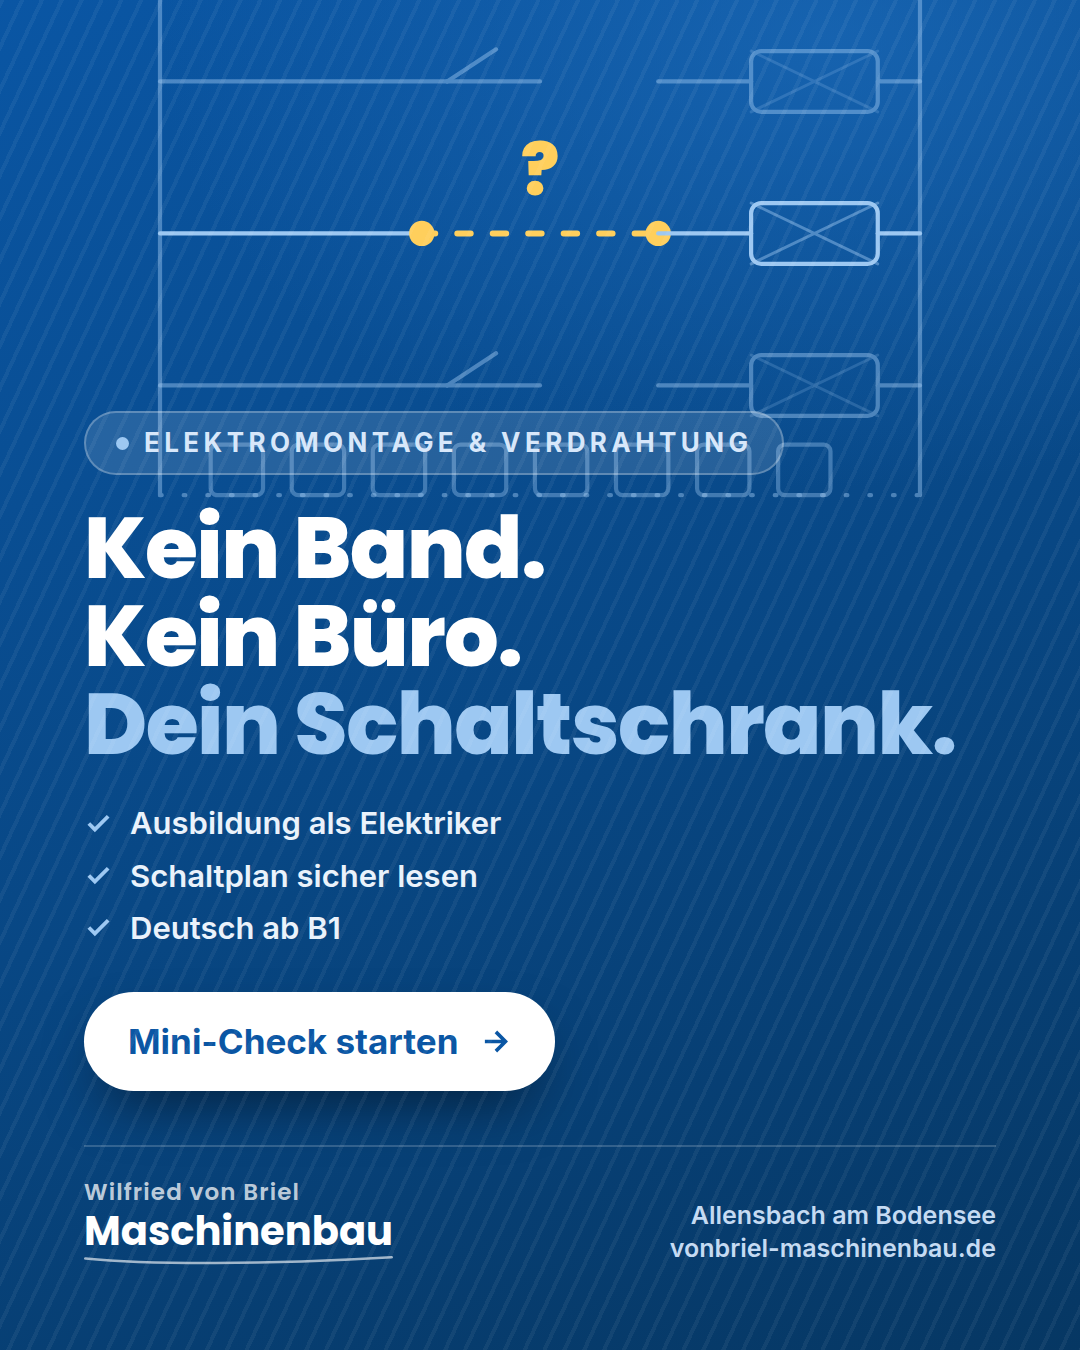
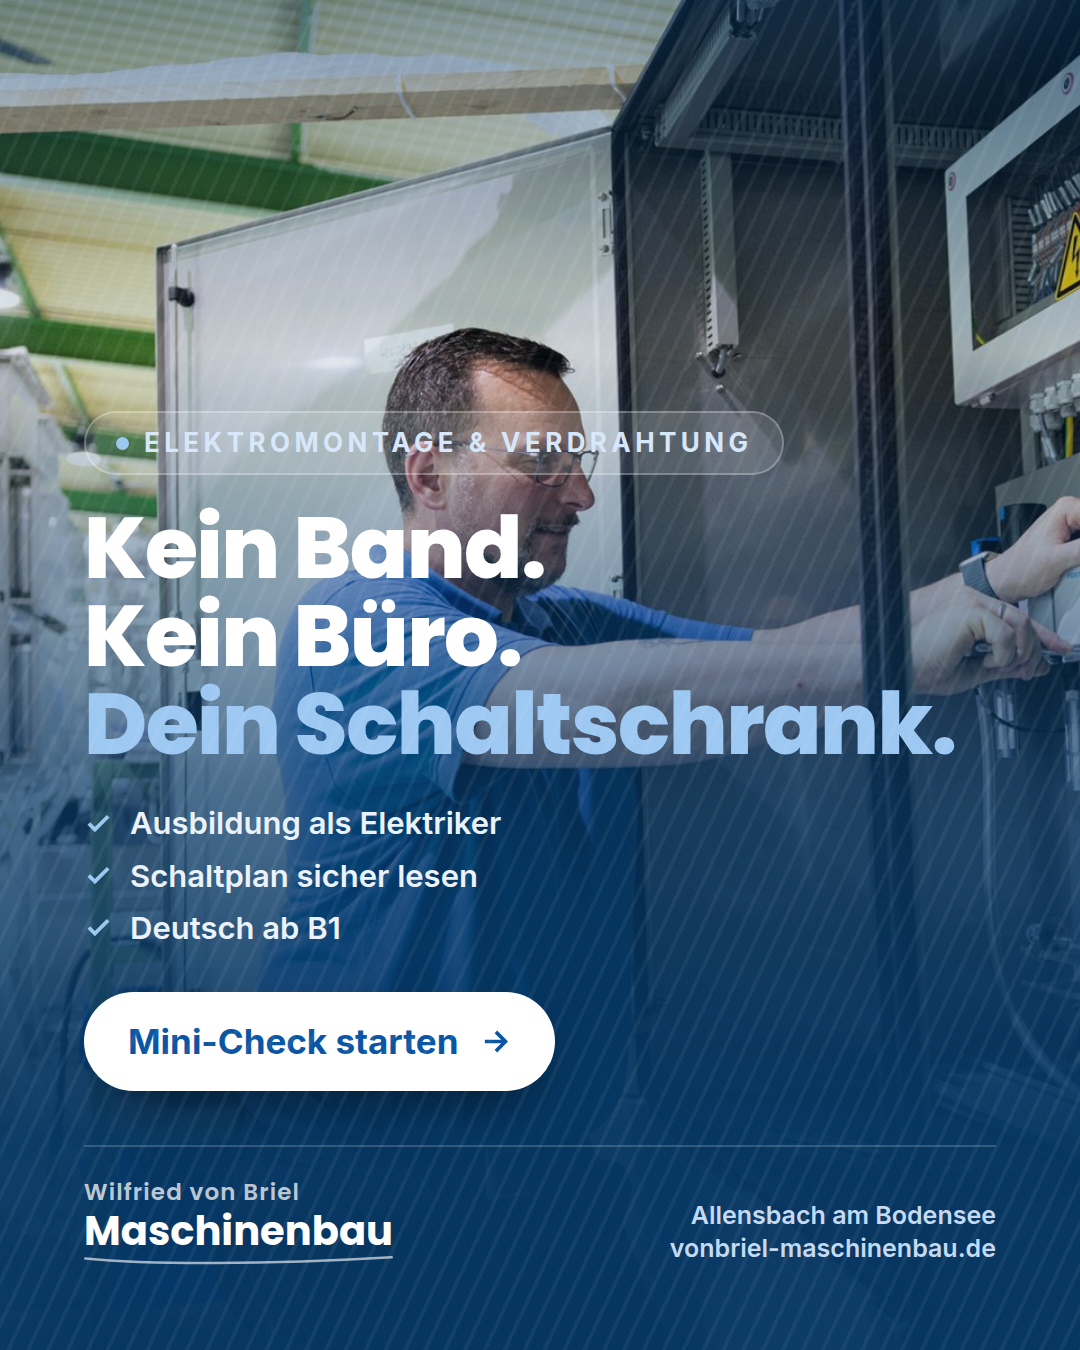
Echte Werkstatt- und Teamfotos auf der Seite und in den Creatives
Fotos aus dem Upload eingebunden: team.jpg lag verschachtelt unter
assets/assets/ und liegt jetzt richtig. Alle fuenf Bilder auf 1800px
verkleinert und komprimiert - zusammen 8,4 MB auf 1,2 MB, damit die
Seite auf dem Handy schnell bleibt.

Seite: breites Motiv (Elektromontage am Schaltschrank) ueber der
Stellen-Sektion, Team-Sektion mit den vier weiteren Bildern. Raster auf
sechs Spalten umgestellt - grosses Bild ueber die volle Breite, darunter
drei gleich grosse Kacheln; mobil fuellt die letzte Kachel die Zeile,
statt halb leer stehen zu bleiben.

Creatives: team-daumen, kein-band-kein-buero und kaffeepause sind mit
den echten Fotos neu gerendert (alle zehn PNGs aktualisiert).

Claude-Session: https://claude.ai/code/session_01UjkRFnuUZ2mhEfYm4W489Y

diff --git a/index.html b/index.html
@@ -747,14 +747,23 @@ ul, ol { margin: 0; padding: 0; list-style: none; }
 .shot--wide { aspect-ratio: 16 / 7; margin-bottom: clamp(24px, 4vw, 36px); }
 
 .team { background: var(--bg); }
-.team__grid { display: grid; grid-template-columns: repeat(auto-fit, minmax(230px, 1fr)); gap: 16px; }
-.team__grid .shot { aspect-ratio: 4 / 3; }
-.team__grid .shot--lead { grid-column: span 2; aspect-ratio: 16 / 10; }
+/* 6 Spalten: großes Bild über die volle Breite, darunter drei gleich große
+   Kacheln – so bleibt nie eine einzelne Kachel in der letzten Zeile stehen. */
+.team__grid { display: grid; grid-template-columns: repeat(6, 1fr); gap: 16px; }
+.team__grid .shot { grid-column: span 2; aspect-ratio: 4 / 3; }
+.team__grid .shot--lead { grid-column: span 6; aspect-ratio: 16 / 9; }
 
 @media (max-width: 720px) {
   .shot--wide { aspect-ratio: 4 / 3; border-radius: 16px; }
   .team__grid { grid-template-columns: 1fr 1fr; gap: 10px; }
+  .team__grid .shot { grid-column: span 1; }
   .team__grid .shot--lead { grid-column: 1 / -1; aspect-ratio: 4 / 3; }
+  /* Die letzte Kachel füllt die Zeile, statt halb leer stehen zu bleiben.
+     Mit großem Bild belegt dieses Platz 1, ohne beginnt die Zählung dort. */
+  .team__grid .shot:last-child:nth-child(even),
+  .team__grid:not(:has(.shot--lead)) .shot:last-child:nth-child(odd) {
+    grid-column: 1 / -1; aspect-ratio: 16 / 9;
+  }
   .shot figcaption { padding: 34px 15px 12px; font-size: 13px; }
 }
 
